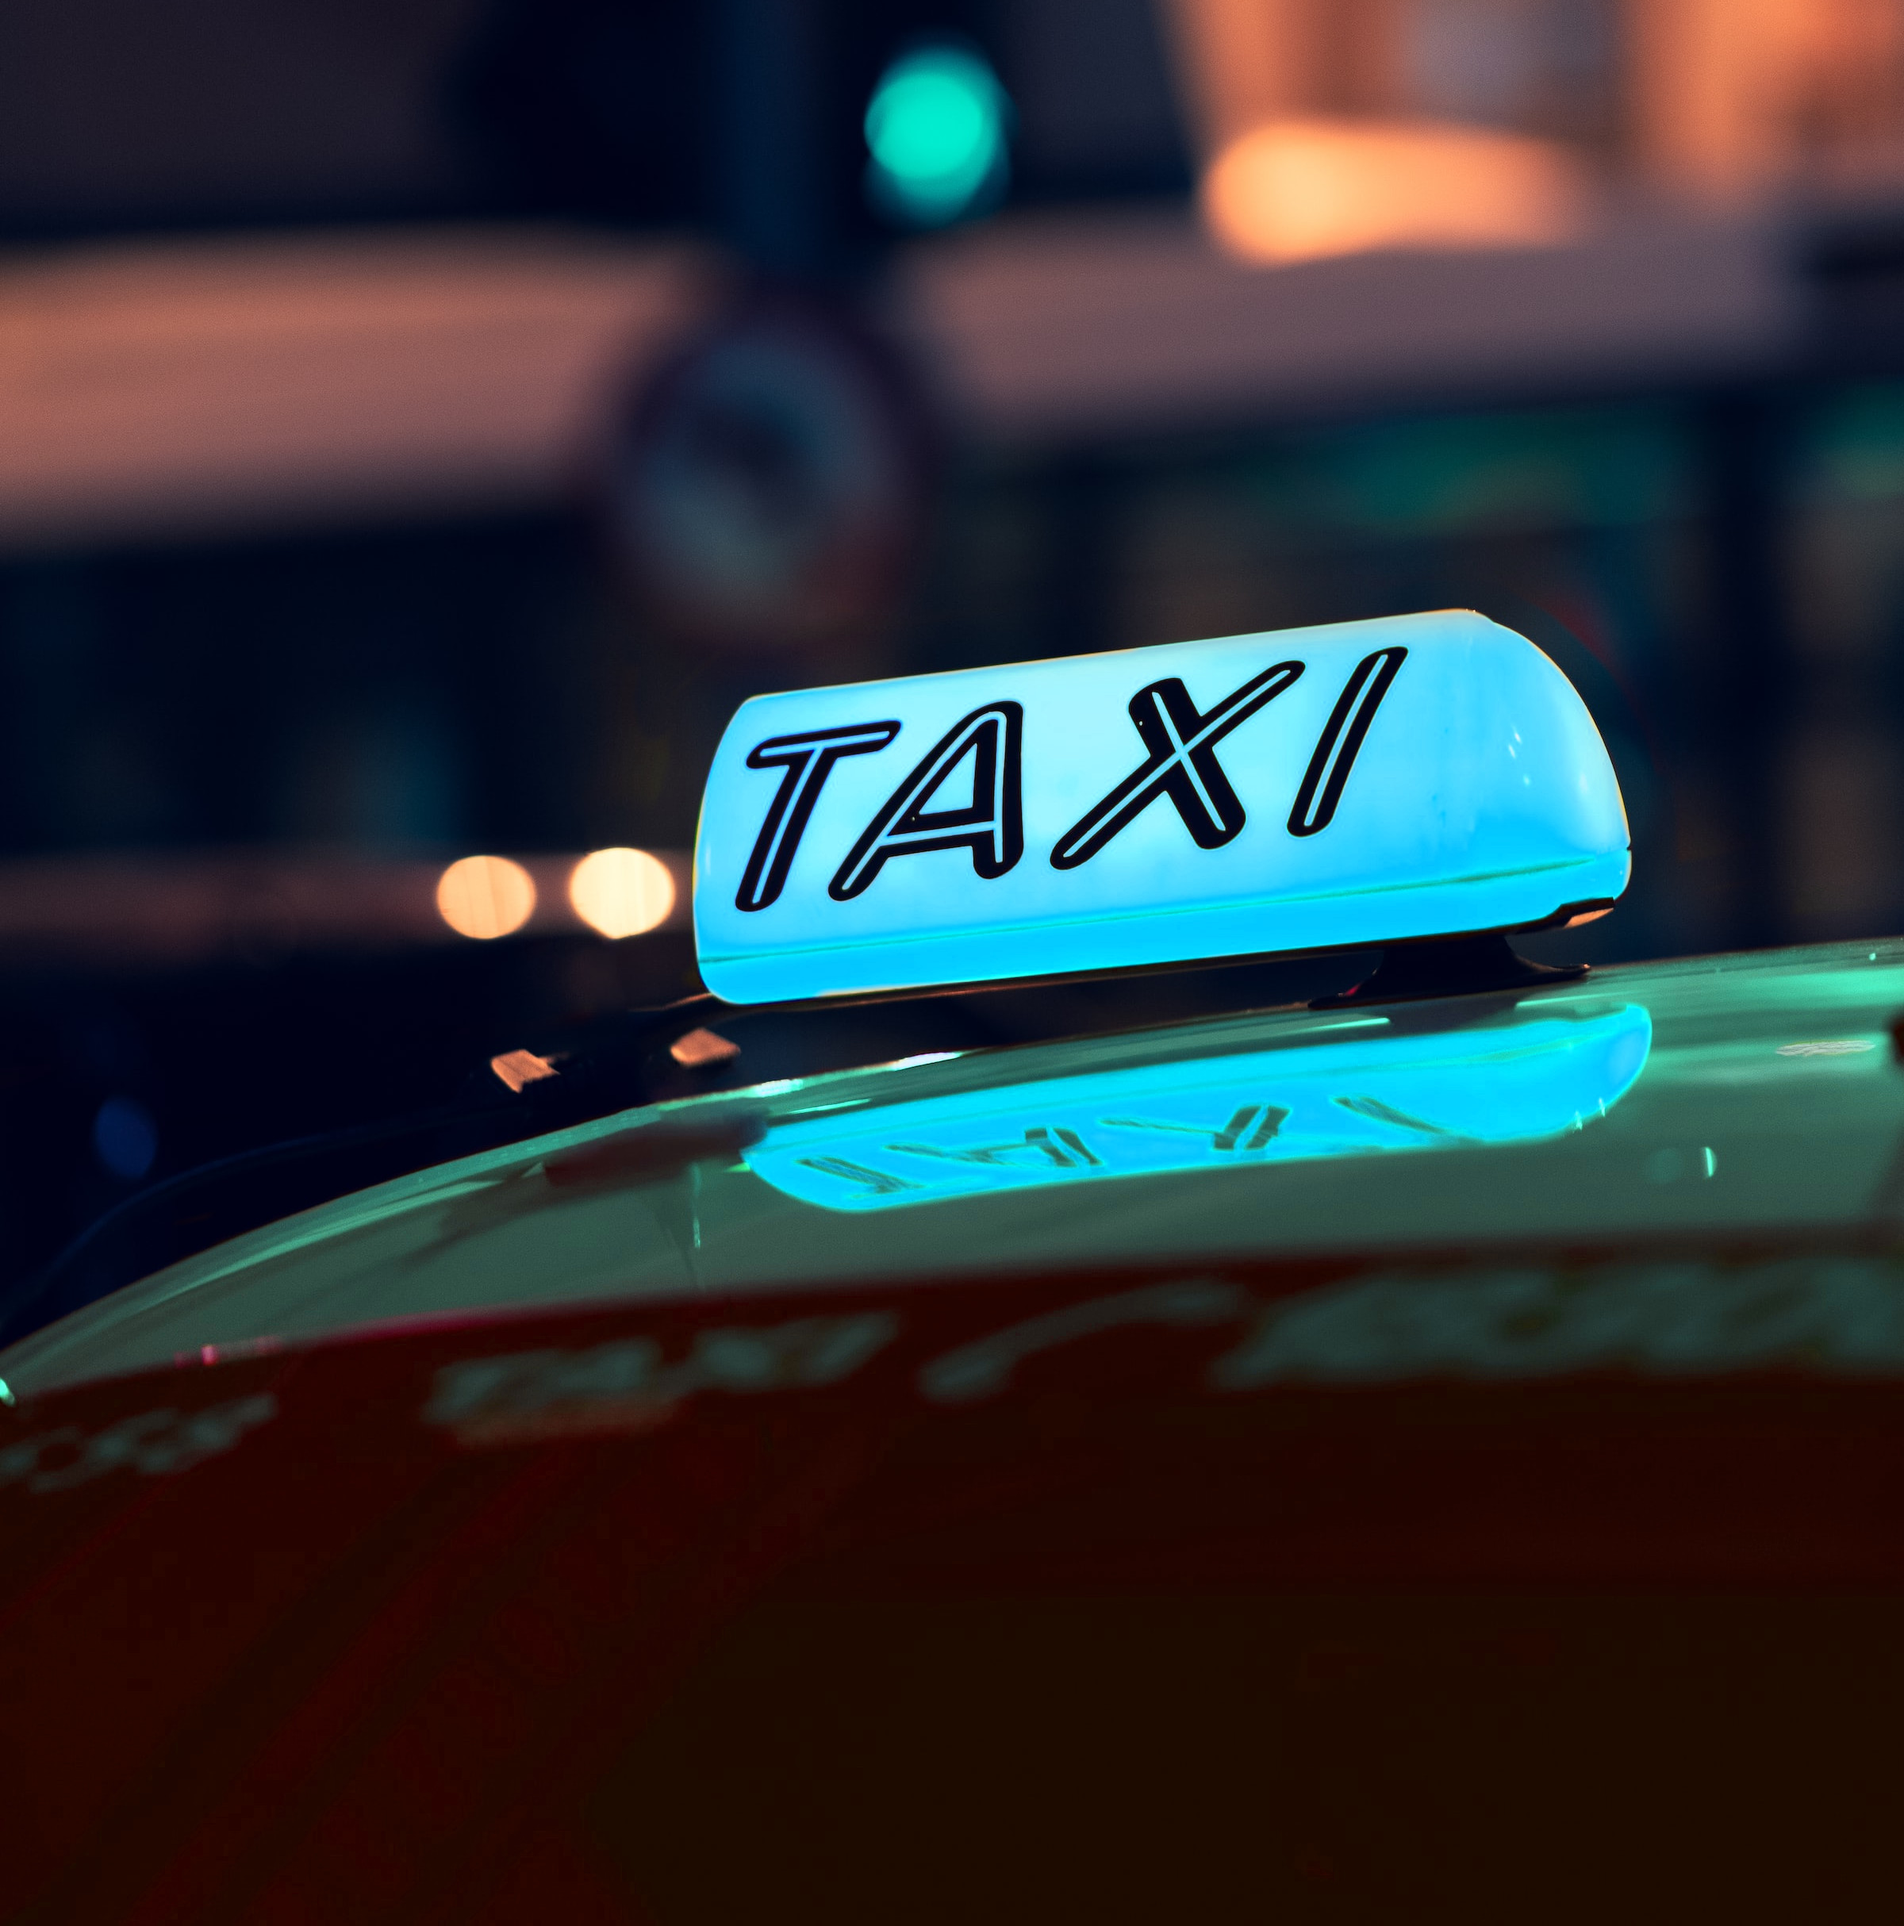
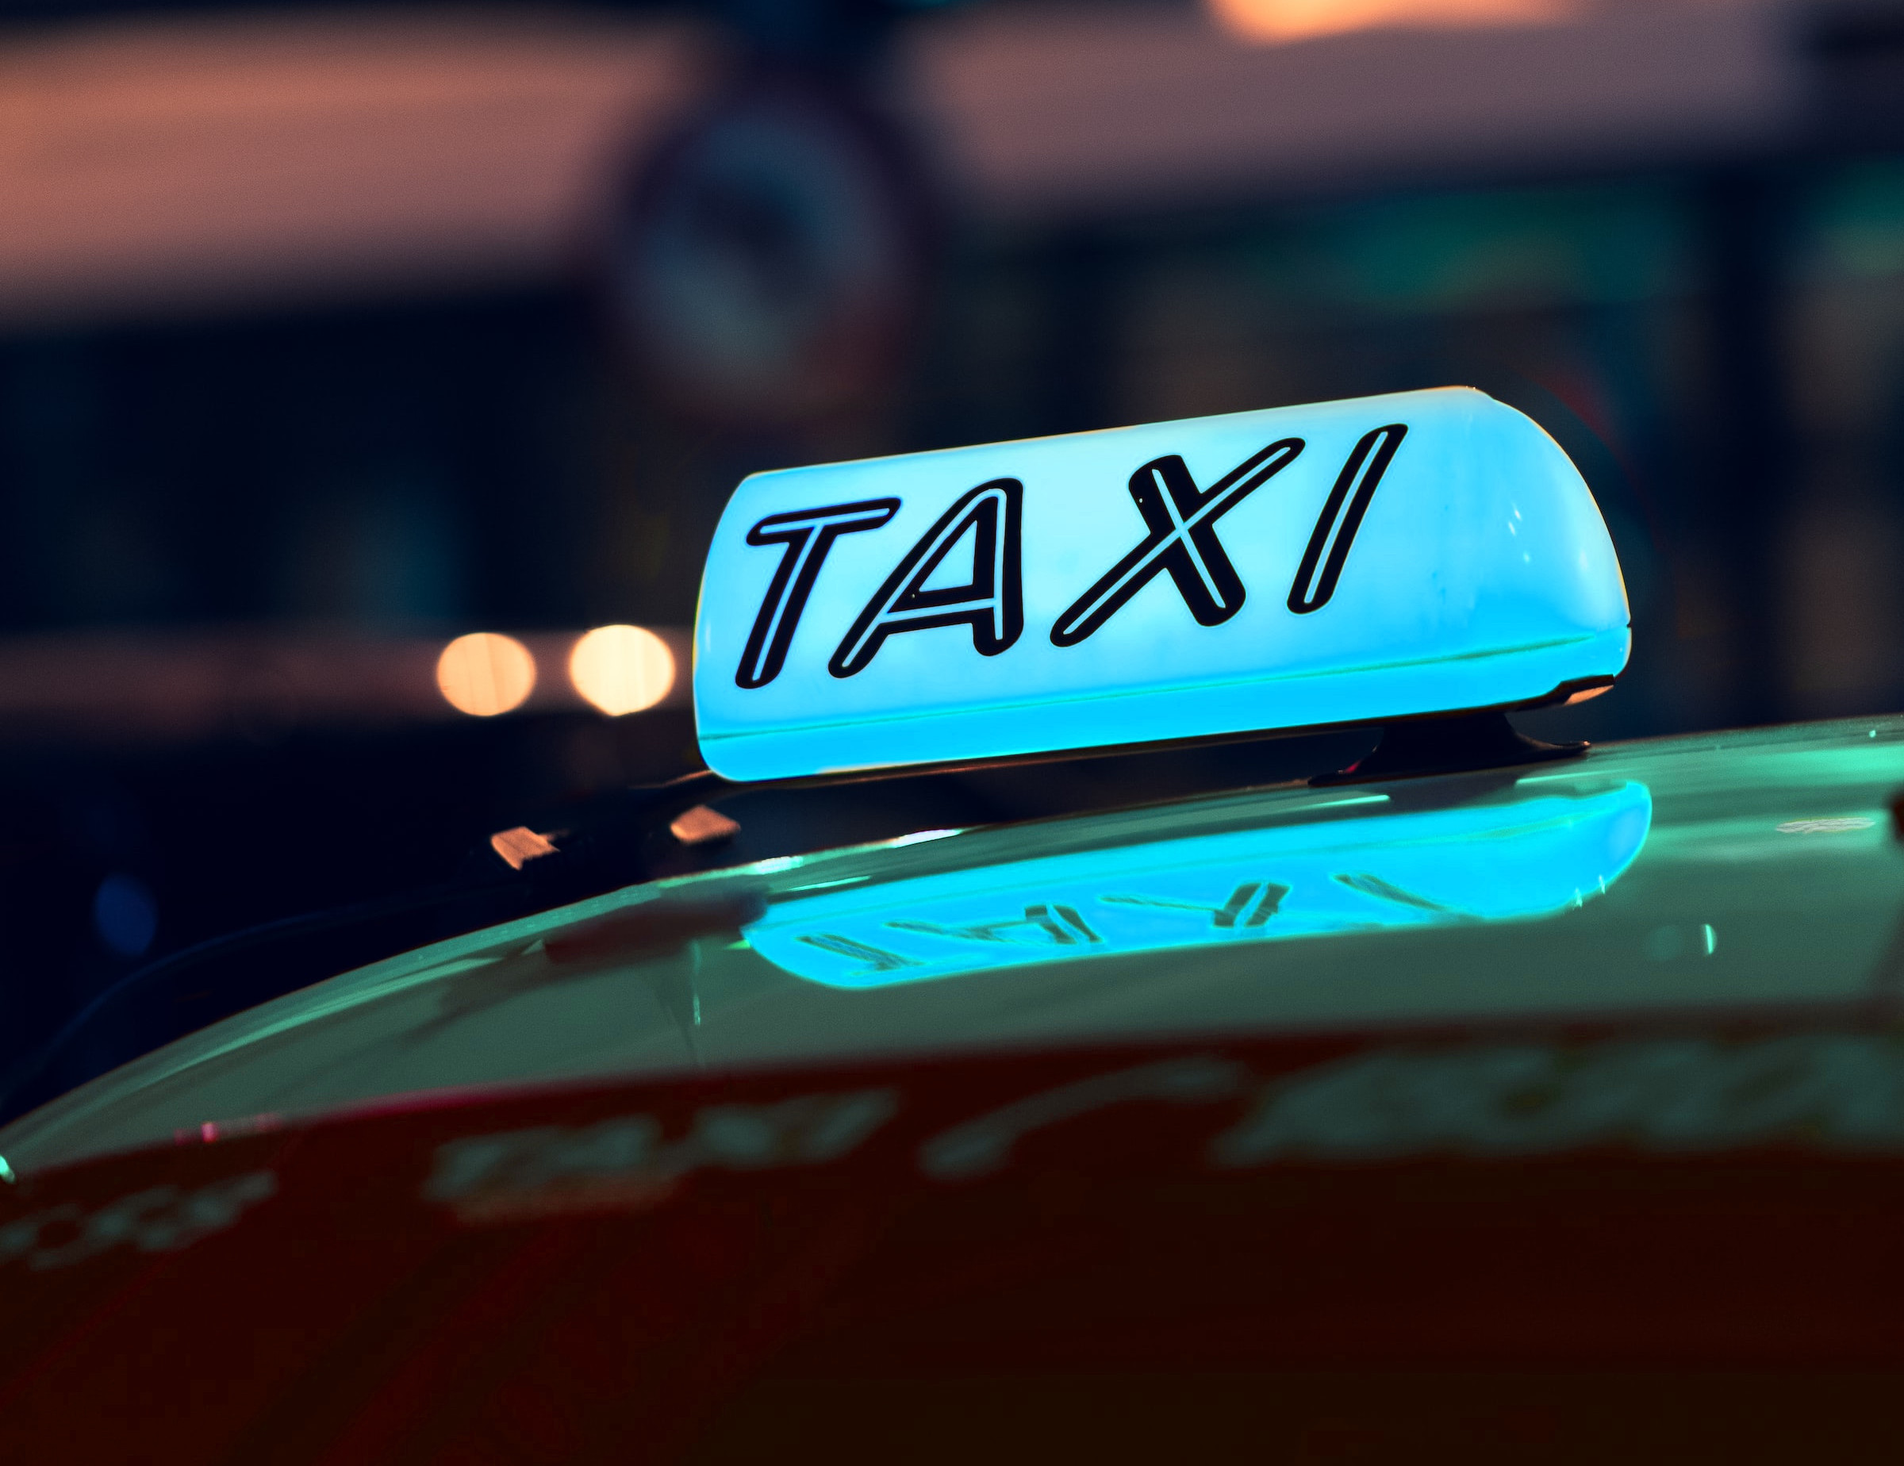
ajuste para version tablet

diff --git a/docs/index.html b/docs/index.html
@@ -41,24 +41,31 @@
     <div class="row">
         <div class="col-md-12 bg-img bg-img-init">
             <div class="row">
-                <div class="col-md-6 mt-5 mb-5 p-0">
-                    <div class="bg-primary box-blue-primary rounded p-5">
-                        <h1 class="font-weight-bold text-white box-title d-none d-sm-block">Muévete en tu ciudad
+                <div class="col-sm-3 box-blue-primary col-md-8 col-lg-6 mt-5 mb-5 p-0">
+                    <div class="bg-primary rounded p-5 col-md-12">
+                        <h1 class="font-weight-bold text-white d-none d-sm-block">Muévete en tu ciudad
                             y disfruta del viaje</h1>
-                        <h1 class="font-weight-bold text-white box-title mt-5 d-none d-sm-block">
+                        <h1 class="font-weight-bold text-white mt-5 d-none d-sm-block">
                             Viaja con <span class="text-JetBrains-bold">TAXIBIP</span>
                         </h1>
                         <!--texto mobile-->
-                        <h1 class="font-weight-bold text-white box-title mt-5 d-md-none">
+                        <h1 class="font-weight-bold text-white mt-3 d-md-none">
                             Disfruta del viaje con <span class="text-JetBrains-bold">TAXIBIP</span>
                         </h1>
                         <div class="btn-group box-buttons">
-                            <a href="#" class="btn btn-light pill btn-lg  rounded-pill mr-5">
-                                <span class="text-jetbrains-bold font-weight-bold">TAXIBIP</span> Conductor
-                            </a>
-                            <a href="#" class="btn btn-light pill btn-lg  rounded-pill">
-                                <span class="text-jetbrains-bold font-weight-bold">TAXIBIP</span> Viajero
-                            </a>
+                            <div class="row pt-md-3">
+                                <div class="col-md-6 col-sm-12 pb-3">
+                                    <a href="#" class="btn btn-light pill btn-block rounded-pill mr-5">
+                                        <span class="text-jetbrains-bold font-weight-bold">TAXIBIP</span> Conductor
+                                    </a>
+                                </div>
+                                <div class="col-md-6 col-sm-12">
+                                    <a href="#" class="btn btn-light pill btn-block rounded-pill">
+                                        <span class="text-jetbrains-bold font-weight-bold">TAXIBIP</span> Viajero
+                                    </a>
+                                </div>
+                            </div>
+                            
                         </div>
                     </div>
                 </div>
@@ -67,29 +74,28 @@
     </div>
     <div class="row">
         <div class="col-md-4 p-5 text-center">
-            <h2 class="font-weight-bold pt-4 pb-4 d-md-none">Viaja seguro</h2>
+            <h2 class="font-weight-bold pt-2 pb-4 d-md-none">Viaja seguro</h2>
             <img src="imgs/taxibip_mobile_app.png" class="" 
             alt="imagen de telefono movil con logo de taxibip" srcset="" height="300">
         </div>
-        <div class="col-md-8 p-5">
+        <div class="col-md-8 pb-5">
             <h2 class="font-weight-bold pt-4 pb-4 d-none d-sm-block">Viaja seguro</h2>
-            <p class="text-paragraph">Viajando con nosotros tiene tarifas más baratas para que viajes al mismo lugar y 
+            <p class="text-paragrah d-none d-sm-none d-md-block">Viajando con nosotros tiene tarifas más baratas para que viajes al mismo lugar y 
                 llegues al mismo tiempo, pagando menos.</p>
-            <p class="text-paragraph">Tiene soporte 24/7 en todos tus viajes y puedes contar con nuestras herramientas 
+            <p class="text-paragraph d-sm-block">Tiene soporte 24/7 en todos tus viajes y puedes contar con nuestras herramientas 
                 de seguridad para que viajes con la tranquilidad que mereces.</p>
-            <p class="text-paragraph">¡Es momento de redescubrir tu ciudad favorita de México con solo un TAXI BIP!</p>
-        <div class="btn-group">
-            <a href="#" class="stretched text-link">
-                Conoce más sobre las Funciones de Seguridad
-            </a>
-        </div>
+            <p class="text-paragraph d-md-block">¡Es momento de redescubrir tu ciudad favorita de México con solo un TAXI BIP!</p>
+            <div class="btn-group">
+                <a href="#" class="font-weight-bold pl-5 pr-5 text-link p-none">
+                    Conoce más sobre las Funciones de Seguridad
+                </a>
+            </div>
         </div>
     </div>
     <div class="row">
-        <div class="col-md-6 bg-img bg-img-medium">
-            
+        <div class="col-sm-12 col-md-12 col-lg-6 bg-img bg-img-medium">    
         </div>
-        <div class="col-md-6 p-5 text-white bg-primary">
+        <div class="col-sm-12 col-md-12 col-lg-6 p-5 text-white bg-primary">
             <h2 class="pt-5">Conócenos</h2>
             <p><span class="font-weight-bold text-jetbrains-bold">TAXIBIP</span> es la plataforma de movilidad inteligente líder en el mundo.</p>
             <p>Conectamos con un enorme número de usuarios por medio de soluciones de movilidad como 
@@ -98,8 +104,7 @@
                 comunidades para resolver, por medio de la tecnología, los desafíos de movilidad en las 
                 ciudades.</p>
                 <div class="btn-group pb-5">
-                    <a href="#" class="btn btn-light pill btn-lg rounded-pill mr-5" 
-                        >
+                    <a href="#" class="btn btn-light pill btn-block rounded-pill mr-5">
                         <span class="text-jetbrains-bold font-weight-bold">TAXIBIP</span> en el mundo
                     </a>
                 </div>
@@ -117,7 +122,7 @@
                   <label for="formGroupExampleInput2">Destino</label>
                   <input type="text" class="form-control" id="formGroupExampleInput2" placeholder="Escribe tu destino">
                 </div>
-                <button type="submit" class="btn btn-primary pill btn-lg btn-block rounded-pill mr-5">Calcular</button>
+                <button type="submit" class="font-weight-bold btn btn-primary pill btn-lg btn-block rounded-pill mr-5">Calcular</button>
               </form>
         </div>
         <div class="col-md-6 p-5 d-none d-sm-block">

diff --git a/docs/css/styles.css b/docs/css/styles.css
@@ -42,15 +42,19 @@ body {
 .img-right {
     text-align: right;
 }
+@media (max-width:500px) {
 
+    .box-blue-primary {
+        width: 80%;
+    }
+}
 
 @media (max-width:900px) {
     .bg-img-init {
-        background-image: url('../imgs/taxibip_mobile.jpg');
-        
+        background-image: url('../imgs/taxibip_mobile.jpg');   
     }
-    .box-blue-primary {
-        width: 18rem;
+    .bg-img-medium {
+        height: 40vh;
     }
     .box-title {
         width: 12rem;
@@ -60,6 +64,7 @@ body {
     }
     .text-link {
         text-align: center;
+        padding-top:1rem !important ;
     }
     .link-social {
         padding-top: 2rem;
